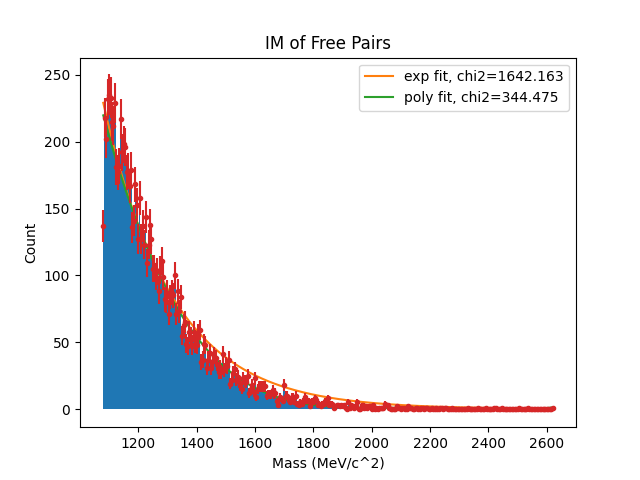
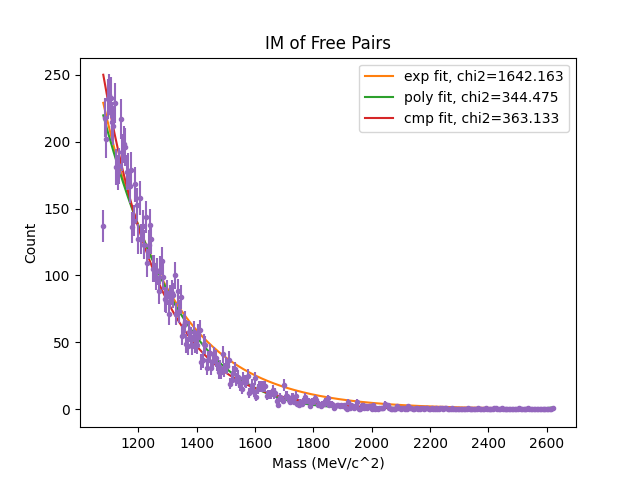
code

Changed region(s): [[0.1562, 0.1562, 0.875, 0.875], [0.5625, 0.2188, 0.875, 0.2812]]

diff --git a/param_test_mult_part/BW_reader_mult.py b/param_test_mult_part/BW_reader_mult.py
@@ -134,6 +134,9 @@ def cmb_func_p(x,A,a,b,c0,c1,c2,c3,c4,scl1,scl2):
 def cmb_func_e(x,A,a,b,a1,b1,c1,scl1,scl2):
   return scl1*bw_func(x,A,a,b)+scl2*exp_func(x,a1,b1,c1)
 
+def cmp_func(x,A,b,c):
+  return A*(x**2)*np.exp(-b*x)+c
+
 def fwhm_calc(data,bins):
   max_value=np.max(data)
   max_ind=np.argmax(data)
@@ -373,7 +376,7 @@ def reader(directory,file_pattern,output_folder):
       plt.figtext(0.75,0.75,"par=%s \n A=%s+/-%s\n a=%s+/-%s\n b=%s+/-%s \n chi_sq=%s"%(param,round(A_est,3),round(eA,3),round(a_est,3), round(ea,3),round(b_est,3),round(eb,3),round(chi_sq,3)),horizontalalignment='center',verticalalignment='center',bbox=dict(facecolor='none',edgecolor='black'))
       plot_file_path = os.path.join(output_folder, f"{os.path.splitext(os.path.basename(filename))[0]}_IM_plot.png")
       plt.savefig(plot_file_path)
-      plt.show()
+      #plt.show()
       plt.close()
       print("total number of counted particles after momentum cut:", np.sum(hist))
     
@@ -470,8 +473,7 @@ def reader(directory,file_pattern,output_folder):
     #free pairs ("fake" delta)
     if len(free_IM)!=0:
       plt.figure()
-      hist_f,bins_f,pack_f=plt.hist(free_IM,bins=np.arange(int(min(free_IM)),int(max(free_IM)),binsize),alpha=1)
-      #plt.show()
+      hist_f,bins_f,pack_f=plt.hist(free_IM,bins=np.arange(int(min(free_IM)),int(max(free_IM)),binsize),alpha=0)
       bins_cntr_f=0.5*(bins_f[:-1]+bins_f[1:])
       xfit_f=np.arange(min(bins_cntr_f),max(bins_cntr_f),0.5)    
       f_err=np.sqrt(hist_f)
@@ -485,12 +487,20 @@ def reader(directory,file_pattern,output_folder):
       f_p_chi_sq=chi2gen(poly_func,bins_cntr_f,hist_f,sigpts_f,popt_f_p)
       yfit_f_p=poly_func(xfit_f,*popt_f_p)
       #print(popt_f_p)
+      plt.plot(xfit_f,yfit_f_p,label='poly fit, chi2=%s'%round(f_p_chi_sq,3))
+      
       '''bins_f_rscl=[i-min(bins_cntr_f) for i in bins_cntr_f]
+      xfit_f_rscl=np.arange(min(bins_f_rscl),max(bins_f_rscl),0.5)
       popt_f_p_rscl,pcov_f_p_rscl=curve_fit(poly_func,bins_f_rscl,hist_f,p0=[max(hist_f),0,0,0,0],sigma=sigpts_f,absolute_sigma=True)
       print(popt_f_p_rscl)
       yfit_f_p_rscl=poly_func(np.arange(min(bins_f_rscl),max(bins_f_rscl),0.5),*popt_f_p_rscl)
       plt.plot(xfit_f-1,yfit_f_p_rscl,label='poly fit, rscl')'''
-      plt.plot(xfit_f,yfit_f_p,label='poly fit, chi2=%s'%round(f_p_chi_sq,3))
+
+      popt_f_cmp,pcov_f_cmp=curve_fit(cmp_func,bins_cntr_f,hist_f,p0=[1/mc.TDel,1/mc.TDel,1],sigma=sigpts_f,absolute_sigma=True)
+      f_cmp_chi_sq=chi2gen(cmp_func,bins_cntr_f,hist_f,sigpts_f,popt_f_cmp)
+      yfit_f_cmp=cmp_func(xfit_f,*popt_f_cmp)
+      plt.plot(xfit_f,yfit_f_cmp,label='cmp fit, chi2=%s'%round(f_cmp_chi_sq,3))
+      
       plt.errorbar(bins_cntr_f,hist_f,xerr=binsize/2,yerr=sigpts_f,fmt='.')
       plt.title("IM of Free Pairs")
       plt.xlabel("Mass (MeV/c^2)")
@@ -501,7 +511,11 @@ def reader(directory,file_pattern,output_folder):
       plt.savefig(plot_file_path)
       #plt.show()
       plt.close()
+      
 
+    #################
+    #addition method#
+    #################
     #adding free and actual
     if len(free_IM)!=0 and len(act_IM)!=0:      
       plt.figure()
@@ -522,6 +536,7 @@ def reader(directory,file_pattern,output_folder):
       #scld_y2=[]
       cmb_y2=[]
       cmb_ye=[]
+      #cmb_y3=[]
       fit_sclr_list=[]
       for i in range(len(bins_cntr_act),len(bins_cntr_f)):
         if hist_f[i]>0:
@@ -530,13 +545,16 @@ def reader(directory,file_pattern,output_folder):
       mxpt=np.where(yfitbw_act==max(yfitbw_act))[0]
       fpval_at_max=poly_func(cmn_x[mxpt],*popt_f_p)[0]
       feval_at_max=exp_func(cmn_x[mxpt],*popt_f_e)[0]
+      fcmpval_at_max=exp_func(cmn_x[mxpt],*popt_f_cmp)[0]
       fit_sclr2=1+Ndelta*(fpval_at_max/max(hist))
       fit_sclr3=1+Ndelta*(feval_at_max/max(hist))
+      #fit_sclr4=1+Ndelta*(fcmpval_at_max/max(hist))
       for i in range(0,len(xfitbw_act)):
         cmb_y.append(yfitbw_act[i]+yfit_f_p[i])
         cmb_ye.append(yfitbw_act[i]+yfit_f_e[i])
         cmb_y1.append(fit_sclr2*yfitbw_act[i]+fit_sclr1*yfit_f_p[i])
         cmb_y2.append(fit_sclr3*yfitbw_act[i]+fit_sclr1*yfit_f_e[i])
+        #cmb_y3.append(fit_sclr4*yfitbw_act[i]+fit_sclr1*yfit_f_cmp[i])
         #scld_y.append(fit_sclr1*yfit_f_p[i])
         #scld_y2.append(fit_sclr1*yfit_f_e[i])
       for i in range(len(xfitbw_act),len(xfit_f)):
@@ -544,6 +562,7 @@ def reader(directory,file_pattern,output_folder):
         cmb_ye.append(yfit_f_e[i])
         cmb_y1.append(yfit_f_p[i]*fit_sclr1)
         cmb_y2.append(yfit_f_e[i]*fit_sclr1)
+        #cmb_y3.append(yfit_f_cmp[i]*fit_sclr1)
         #scld_y.append(fit_sclr1*yfit_f_p[i])
         #scld_y2.append(fit_sclr1*yfit_f_e[i])
       xfit_diff=min(xfitbw_act)-min(xfit_f)
@@ -554,7 +573,8 @@ def reader(directory,file_pattern,output_folder):
       plt.plot(cmn_x,cmb_y,label='combined fit (poly)')
       plt.plot(cmn_x,cmb_ye,label='combined fit (exp)')
       plt.plot(cmn_x,cmb_y1,label='combined fit w/ scaling (poly)')
-      plt.plot(cmn_x,cmb_y2,label='combined fit w/ scaling (exp)')      
+      plt.plot(cmn_x,cmb_y2,label='combined fit w/ scaling (exp)') 
+      #plt.plot(cmn_x,cmb_y3,label='combined fit w/ scaling (cmp)')      
       plt.errorbar(cmb_bins[:-1],cmb_hist,xerr=binsize_cmb/2,yerr=cmb_err,fmt='.',label="Combined")
       plt.title("Real + Free")
       plt.xlabel("Mass (MeV/c^2)")
@@ -578,18 +598,69 @@ def reader(directory,file_pattern,output_folder):
       xfit_cmb=np.arange(min(bins_cntr),max(bins_cntr),0.5)
       yfit_cmb=cmb_func_p(xfit_cmb,*popt_guess)
       yfit_cmb2=cmb_func_e(xfit_cmb,*popt_guess1)
-      print(popt_guess)
-      print(popt_guess1)
+      #print(popt_guess)
+      #print(popt_guess1)
       plt.plot(xfit_cmb,yfit_cmb,label='cmb fit w/ p')
       plt.plot(xfit_cmb,yfit_cmb2,label='cmb fit w/ e')
       plt.errorbar(bins_cntr,hist,xerr=binsize/2,yerr=hist_err,fmt='.')
       plt.xlim(min(bins_cntr)-2*binsize,mc.m_max)
       plt.legend(loc='upper right')
+      #plt.show()
+      plot_file_path = os.path.join(output_folder, f"{os.path.splitext(os.path.basename(filename))[0]}_cmb_IM_plot.png")
+      plt.close()
+      
+
+    #####################
+    #subtraction methods#
+    #####################
+    
+    #goal: "take out" the affect of the background in the IM histogram
+    #step 1: find, if any, the distinguishing point(s) btwn bg and real
+    #step 2: curve_fit on section with just the bg
+    #step 3: extrapolate to the rest of the histogram
+    #step 4: subtract fit values from the histogram
+
+    if len(IM_list)!=0 and len(free_IM)!=0:
+      plt.figure()
+      plt.errorbar(bins_cntr,hist,xerr=binsize/2,yerr=hist_err,fmt='.',label='Recreated Deltas')
+      #identify any jumps or kinks
+      startpt=np.where(hist==max(hist))[0][0]
+      hist_diff=np.diff(hist)
+      limiter=6
+      hist_lim=limiter*np.std(hist_diff)
+      ind_jump=np.where(np.abs(hist_diff[startpt:])>hist_lim)[0]
+      while len(ind_jump)==0:
+        if limiter==0:
+          continue
+        else:
+          limiter=limiter-1
+          hist_lim=limiter*np.std(hist_diff)
+          ind_jump=np.where(np.abs(hist_diff[startpt:])>hist_lim)[0]
+      bg_start=startpt+ind_jump[-1]+1
+      bg_bins=bins_cntr[bg_start:]
+      #bg_bins_rscl=[ii-mc.md_min for ii in bg_bins]
+      bg_hist=hist[bg_start:]
+      bg_err=hist_err[bg_start:]
+      bg_err=[1 if i==0 else i for i in bg_err]
+      popt_bg_p,pcov_bg_p=curve_fit(poly_func,bg_bins,bg_hist,p0=[bg_hist[0],0,0,0,0],sigma=bg_err,absolute_sigma=True)
+      popt_bg_e,pcov_bg_e=curve_fit(exp_func,bg_bins,bg_hist,p0=[max(hist),2/(mc.Tpfree+mc.Tpifree),0],sigma=bg_err,absolute_sigma=True)
+      popt_bg_cmp,pcov_bg_cmp=curve_fit(cmp_func,bg_bins,bg_hist,p0=[max(hist),1/mc.TDel,0],sigma=bg_err,absolute_sigma=True)
+      #popt_bg_cmp_r,pcov_bg_cmp_r=curve_fit(cmp_func,bg_bins_rscl,bg_hist,p0=[max(hist),1/mc.TDel,0],sigma=bg_err,absolute_sigma=True)
+      bg_x=np.arange(min(bins_cntr),max(bins_cntr),0.5)
+      #bg_x_r=bg_x-mc.md_min
+      bg_y_p=poly_func(bg_x,*popt_bg_p)
+      bg_y_e=exp_func(bg_x,*popt_bg_e)
+      bg_y_cmp=cmp_func(bg_x,*popt_bg_cmp)
+      #bg_y_cmp_r=cmp_func(bg_x_r,*popt_bg_cmp_r)
+      plt.plot(bg_x,bg_y_e,label='bg w/ exp fit')
+      plt.plot(bg_x,bg_y_p,label='bg w/ poly fit')
+      plt.plot(bg_x,bg_y_cmp,label='bg w/ cmp fit')
+      #plt.plot(bg_x,bg_y_cmp_r,label='bg w/ cmp fit (rscl)')
+      plt.scatter(bins_cntr[startpt+ind_jump],hist[startpt+ind_jump],label='jumps')
+      plt.legend(loc='upper right')
       plt.show()
       plt.close()
-
-
-    #
+      quit()
 
     '''#subtracting free from recreated
     if len(IM_list)!=0 and len(free_IM)!=0:

diff --git a/test.py b/test.py
@@ -1,58 +1,30 @@
 import numpy as np
 import matplotlib.pyplot as plt
-from scipy.optimize import fsolve
 
-# Define the functions
-def f(x):
-    return x**2 + 2*x + 1
 
-def g(x):
-    return 2*x + 3
+# Generate a synthetic histogram data
+np.random.seed(42)
+hist_data = np.random.randn(1000)
 
-# Define the function to find roots for (f(x) - g(x) = 0)
-def h(x):
-    return f(x) - g(x)
+# Compute histogram
+hist, bin_edges = np.histogram(hist_data, bins=100)
 
-# Use fsolve to find the roots of h(x) = 0 within a specific range
-# We need to iterate over a range to ensure we capture all intersection points
-x_values = np.linspace(-10, 10, 400)
-initial_guesses = []
+# Calculate differences in histogram counts
+hist_diffs = np.diff(hist)
 
-# Adding initial guesses based on a grid search
-for x in x_values:
-    initial_guesses.append(x)
+# Define a threshold for significant changes in the histogram
+hist_threshold = 3 * np.std(hist_diffs)
 
-# Finding unique roots
-roots = []
-for guess in initial_guesses:
-    root = fsolve(h, guess)[0]
-    # Checking if the root is a duplicate or not by comparing with existing roots
-    if np.isclose(root, roots, atol=1e-5).any():
-        continue
-    else:
-        roots.append(root)
+# Identify bin indices where the difference exceeds the threshold
+hist_kinks_jumps_indices = np.where(np.abs(hist_diffs) > hist_threshold)[0]
 
-# Plot the functions and their intersection points
-x = np.linspace(-10, 10, 400)
-y_f = f(x)
-y_g = g(x)
-
-plt.plot(x, y_f, label='$f(x) = x^2 + 2x + 1$')
-plt.plot(x, y_g, label='$g(x) = 2x + 3$')
-
-# Plot intersection points
-for root in roots:
-    plt.plot(root, f(root), 'ro')  # Intersection points
-    plt.annotate(f'({root:.2f}, {f(root):.2f})', (root, f(root)), textcoords="offset points", xytext=(0,10), ha='center')
-
-plt.xlabel('x')
-plt.ylabel('y')
-plt.legend()
-plt.grid(True)
-plt.title('Intersection of two graphs')
+# Plot the histogram and highlight kinks and jumps
+plt.figure(figsize=(14, 7))
+plt.bar(bin_edges[:-1], hist, width=np.diff(bin_edges), edgecolor="black", align="edge", alpha=0.7)
+for idx in hist_kinks_jumps_indices:
+    plt.bar(bin_edges[idx:idx+2], hist[idx:idx+2], width=np.diff(bin_edges[idx:idx+2]), color='red', align='edge')
+plt.title('Histogram with Identified Kinks and Jumps')
+plt.xlabel('Value')
+plt.ylabel('Frequency')
 plt.show()
 
-# Print the intersection points
-print("Intersection points:")
-for root in roots:
-    print(f"x = {root:.2f}, y = {f(root):.2f}")
